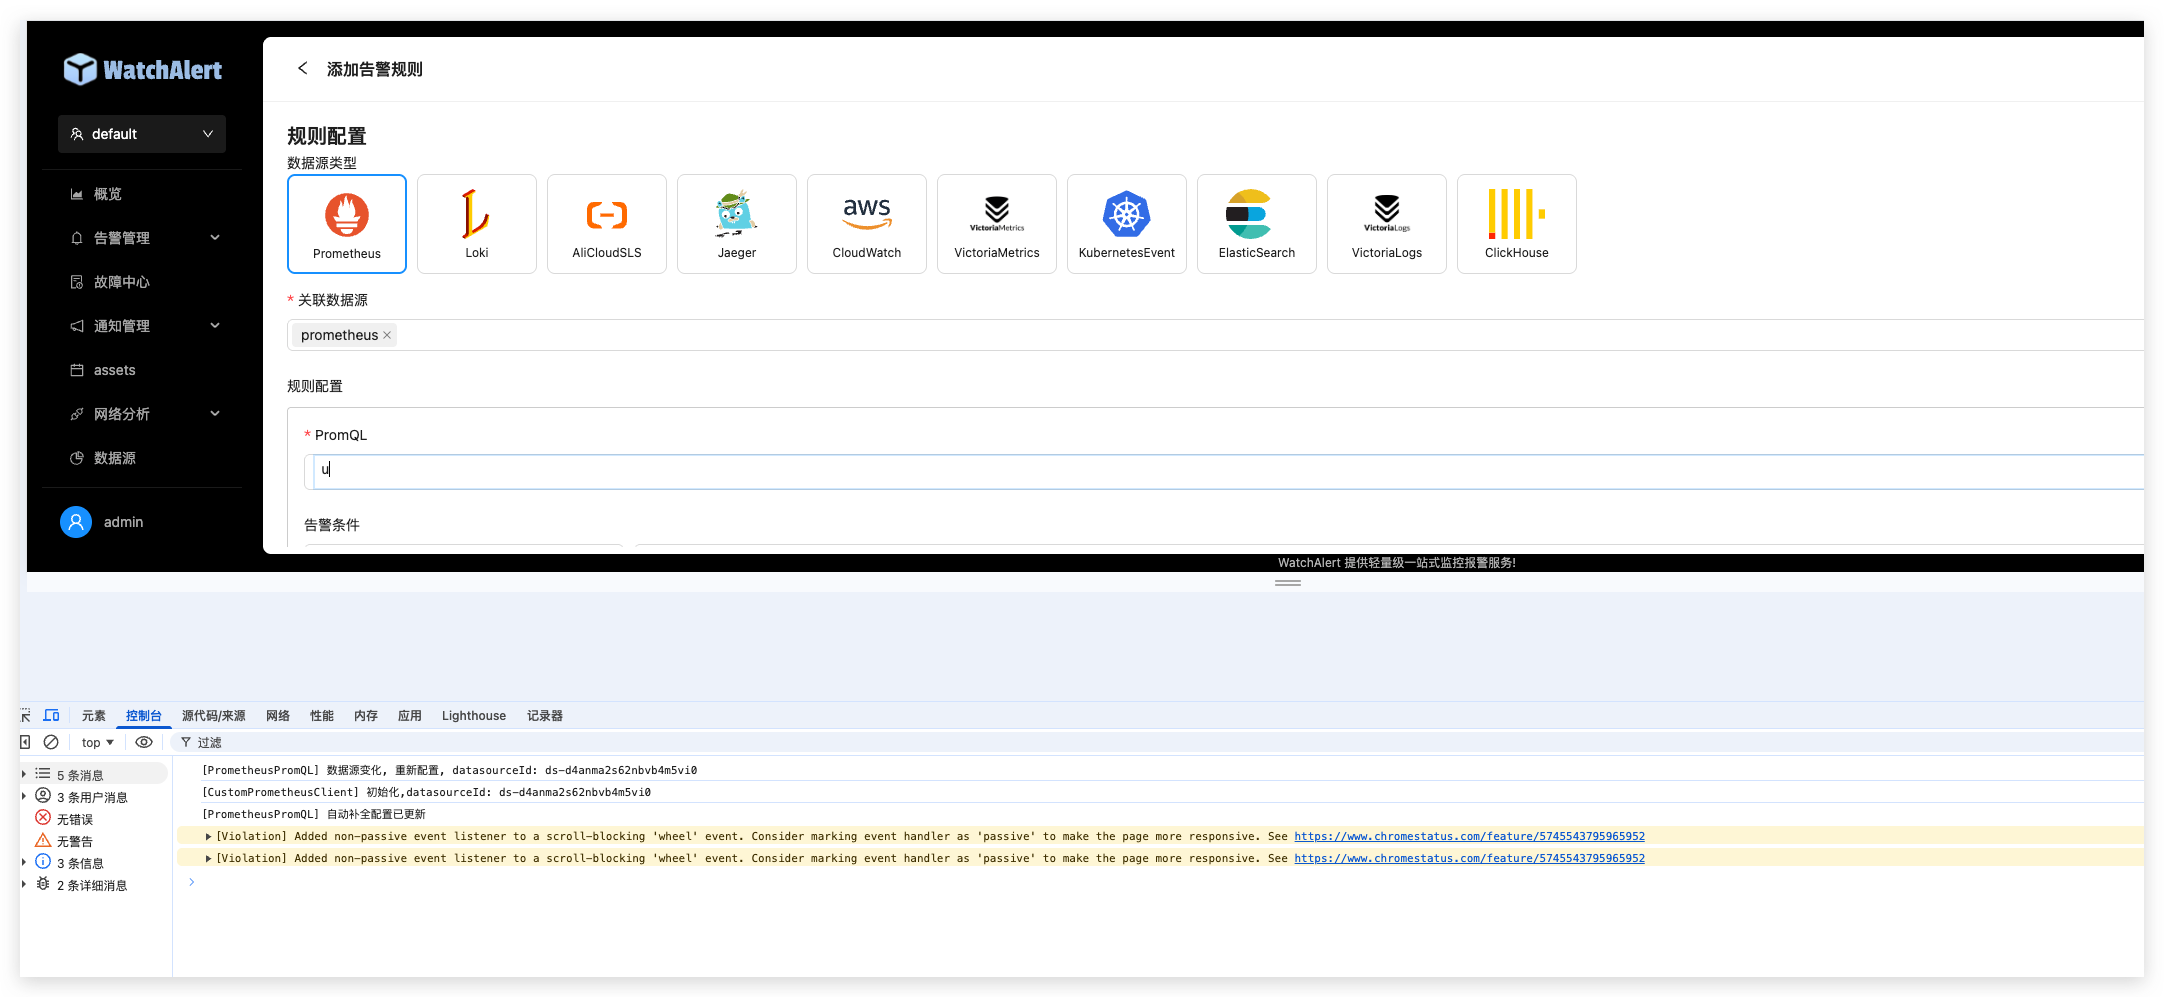
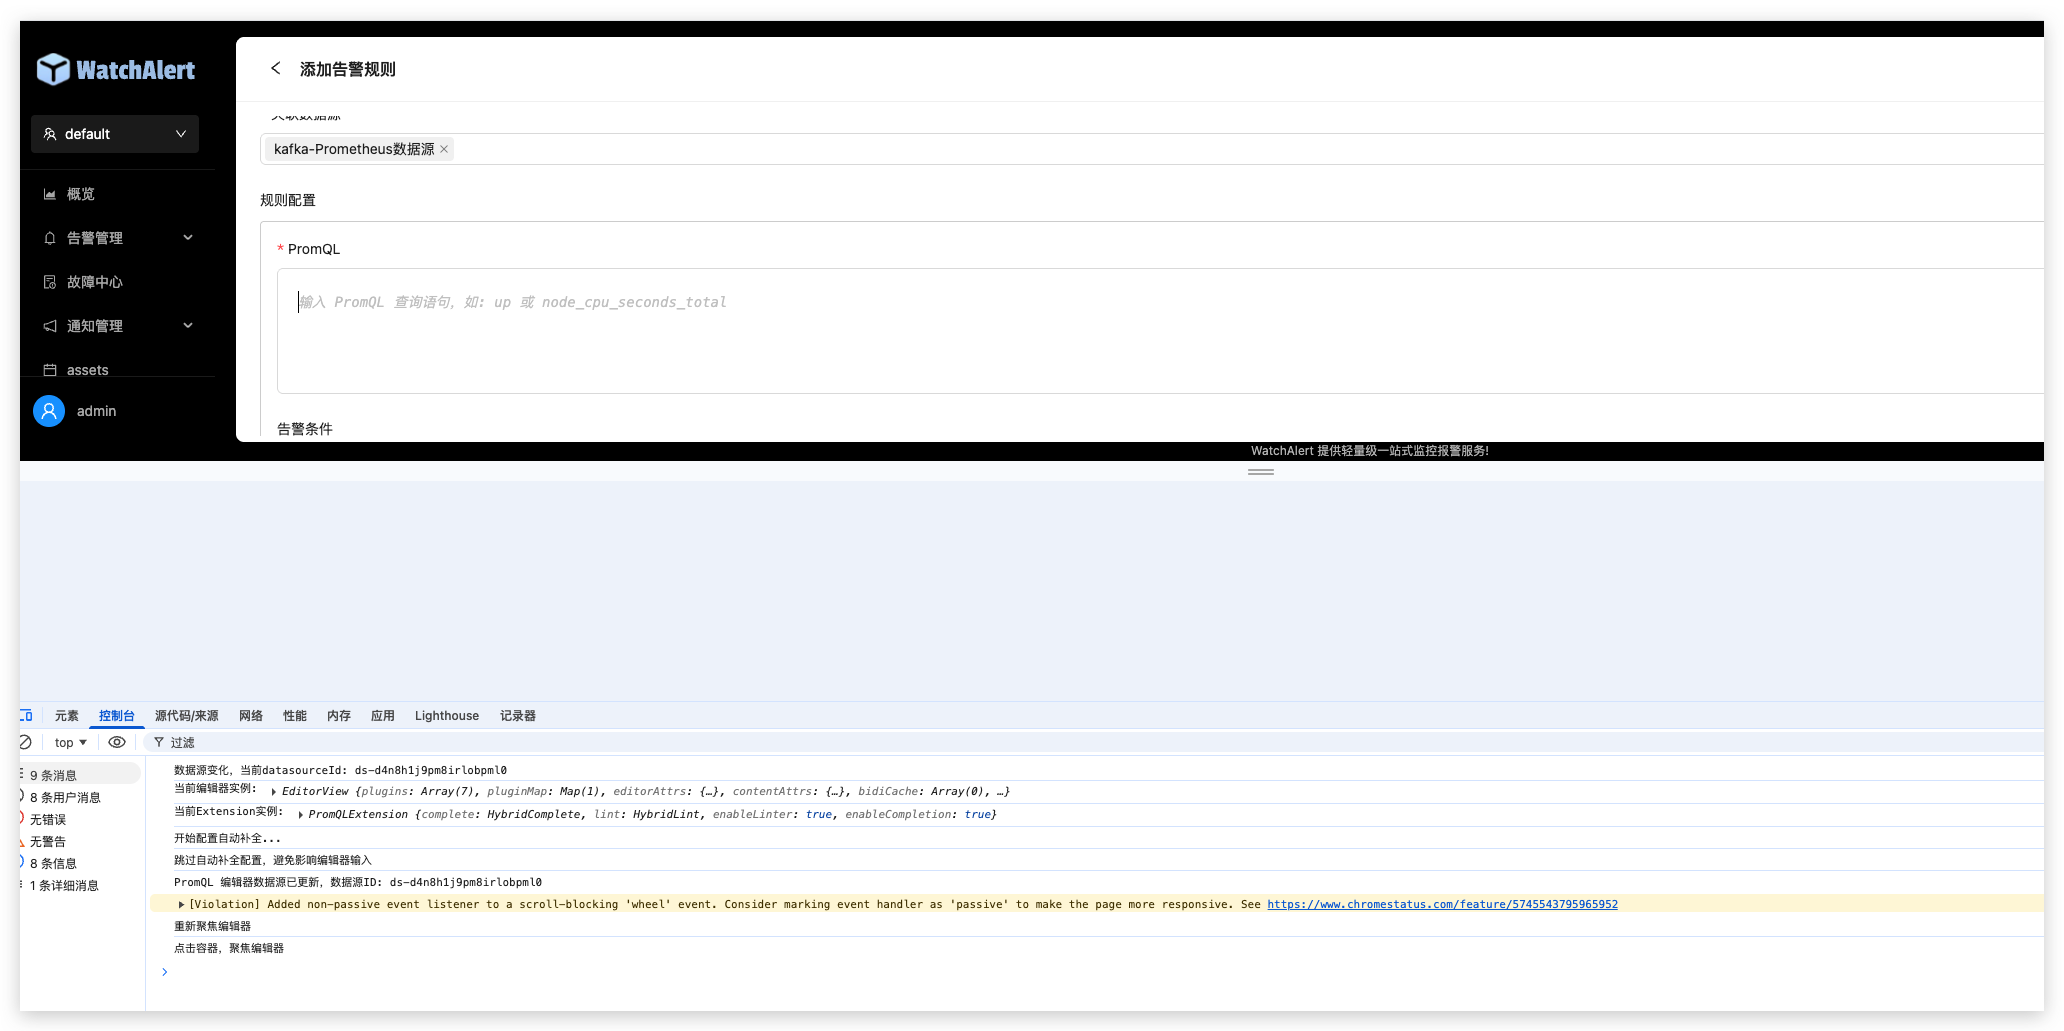
feat: 优化 PromQL 编辑器标签值补全功能
- 修复时间参数解析问题，支持 ISO 8601 和 Unix 时间戳格式
- 添加后端调试日志，便于排查补全问题
- 优化错误处理逻辑
- 移除调试日志，保持代码整洁

Changed region(s): [[0.0, 0.0311, 0.9922, 0.5908], [0.0, 0.6841, 0.9922, 0.9328]]

diff --git a/pkg/provider/metrics_prometheus.go b/pkg/provider/metrics_prometheus.go
@@ -302,7 +302,13 @@ func (p PrometheusProvider) GetLabelValues(labelName, metricName string, startTi
 	// 构建查询选择器
 	var matchers []string
 	if metricName != "" {
-		matchers = []string{fmt.Sprintf("{__name__=\"%s\"}", metricName)}
+		// 重要: 使用 __name__ 标签来限制指标范围
+		// 格式: {__name__="metricName"}
+		matcher := fmt.Sprintf("{__name__=\"%s\"}", metricName)
+		matchers = []string{matcher}
+		// 调试日志: 记录构建的查询选择器
+		// 注意: 在生产环境中应该使用日志级别控制
+		// logc.Infof(ctx, "[PromQL 补全] Provider 层构建查询选择器: labelName=%s, matcher=%s", labelName, matcher)
 	}
 
 	// 调用 Prometheus LabelValues API
@@ -313,11 +319,16 @@ func (p PrometheusProvider) GetLabelValues(labelName, metricName string, startTi
 	if !startTime.IsZero() && !endTime.IsZero() {
 		labelValues, _, err = p.apiV1.LabelValues(ctx, labelName, matchers, startTime, endTime)
 	} else {
+		// 如果没有指定时间范围,使用零值表示不限制时间范围
 		labelValues, _, err = p.apiV1.LabelValues(ctx, labelName, matchers, time.Time{}, time.Time{})
 	}
 
 	if err != nil {
-		return nil, err
+		// 记录错误详情,包括查询参数
+		// logc.Errorf(ctx, "[PromQL 补全] Prometheus API 调用失败: labelName=%s, metricName=%s, matchers=%v, err=%v",
+		// 	labelName, metricName, matchers, err)
+		return nil, fmt.Errorf("prometheus LabelValues API 调用失败: labelName=%s, metricName=%s, err=%w",
+			labelName, metricName, err)
 	}
 
 	// 将 model.LabelValues 转换为 []string
@@ -325,6 +336,10 @@ func (p PrometheusProvider) GetLabelValues(labelName, metricName string, startTi
 	for i, lv := range labelValues {
 		values[i] = string(lv)
 	}
+
+	// 调试日志: 记录返回结果
+	// logc.Infof(ctx, "[PromQL 补全] Provider 层返回结果: labelName=%s, metricName=%s, count=%d",
+	// 	labelName, metricName, len(values))
 
 	return values, nil
 }
@@ -342,6 +357,7 @@ func (p PrometheusProvider) GetMetricNames() ([]string, error) {
 //   - matchers: 标签选择器数组 (如 []string{"up", "node_cpu_seconds_total{job=\"node\"}"})
 //   - startTime: 查询时间范围起点
 //   - endTime: 查询时间范围终点
+//
 // 返回:
 //   - 匹配的时间序列标签组合列表
 func (p PrometheusProvider) GetSeries(matchers []string, startTime, endTime time.Time) ([]map[string]string, error) {

diff --git a/internal/services/prometheus_proxy.go b/internal/services/prometheus_proxy.go
@@ -88,13 +88,11 @@ func (s *prometheusProxyService) GetLabelValues(req *types.PrometheusProxyLabelV
 	// 调用底层 Provider 方法
 	values, err := client.GetLabelValues(req.LabelName, req.MetricName, startTime, endTime)
 	if err != nil {
-		logc.Errorf(s.ctx.Ctx, "获取标签值失败: datasourceId=%s, labelName=%s, err=%v",
-			req.DatasourceID, req.LabelName, err)
+		logc.Errorf(s.ctx.Ctx, "[PromQL 补全] 获取标签值失败: datasourceId=%s, labelName=%s, metricName=%s, err=%v",
+			req.DatasourceID, req.LabelName, req.MetricName, err)
 		return nil, fmt.Errorf("获取标签值失败: %w", err)
 	}
 
-	logc.Infof(s.ctx.Ctx, "获取标签值成功: datasourceId=%s, labelName=%s, count=%d",
-		req.DatasourceID, req.LabelName, len(values))
 	return values, nil
 }
 
@@ -177,6 +175,7 @@ func (s *prometheusProxyService) getPrometheusClient(datasourceID string) (provi
 // 参数:
 //   - start: Unix 时间戳(秒),0 表示不限制
 //   - end: Unix 时间戳(秒),0 表示不限制
+//
 // 返回:
 //   - startTime: 起始时间,零值表示不限制
 //   - endTime: 结束时间,零值表示不限制

diff --git a/api/prometheus_proxy.go b/api/prometheus_proxy.go
@@ -7,6 +7,7 @@ import (
 	"watchAlert/pkg/response"
 
 	"github.com/gin-gonic/gin"
+	"github.com/zeromicro/go-zero/core/logc"
 )
 
 type prometheusProxyController struct{}
@@ -90,6 +91,8 @@ func (c *prometheusProxyController) GetLabelValues(ctx *gin.Context) {
 	// 调用 Service 层
 	values, err := services.PrometheusProxyService.GetLabelValues(&req)
 	if err != nil {
+		logc.Errorf(ctx, "[PromQL 补全] 获取标签值失败: datasourceId=%s, labelName=%s, metricName=%s, err=%v",
+			req.DatasourceID, req.LabelName, req.MetricName, err)
 		response.Fail(ctx, err.Error(), "failed")
 		return
 	}
